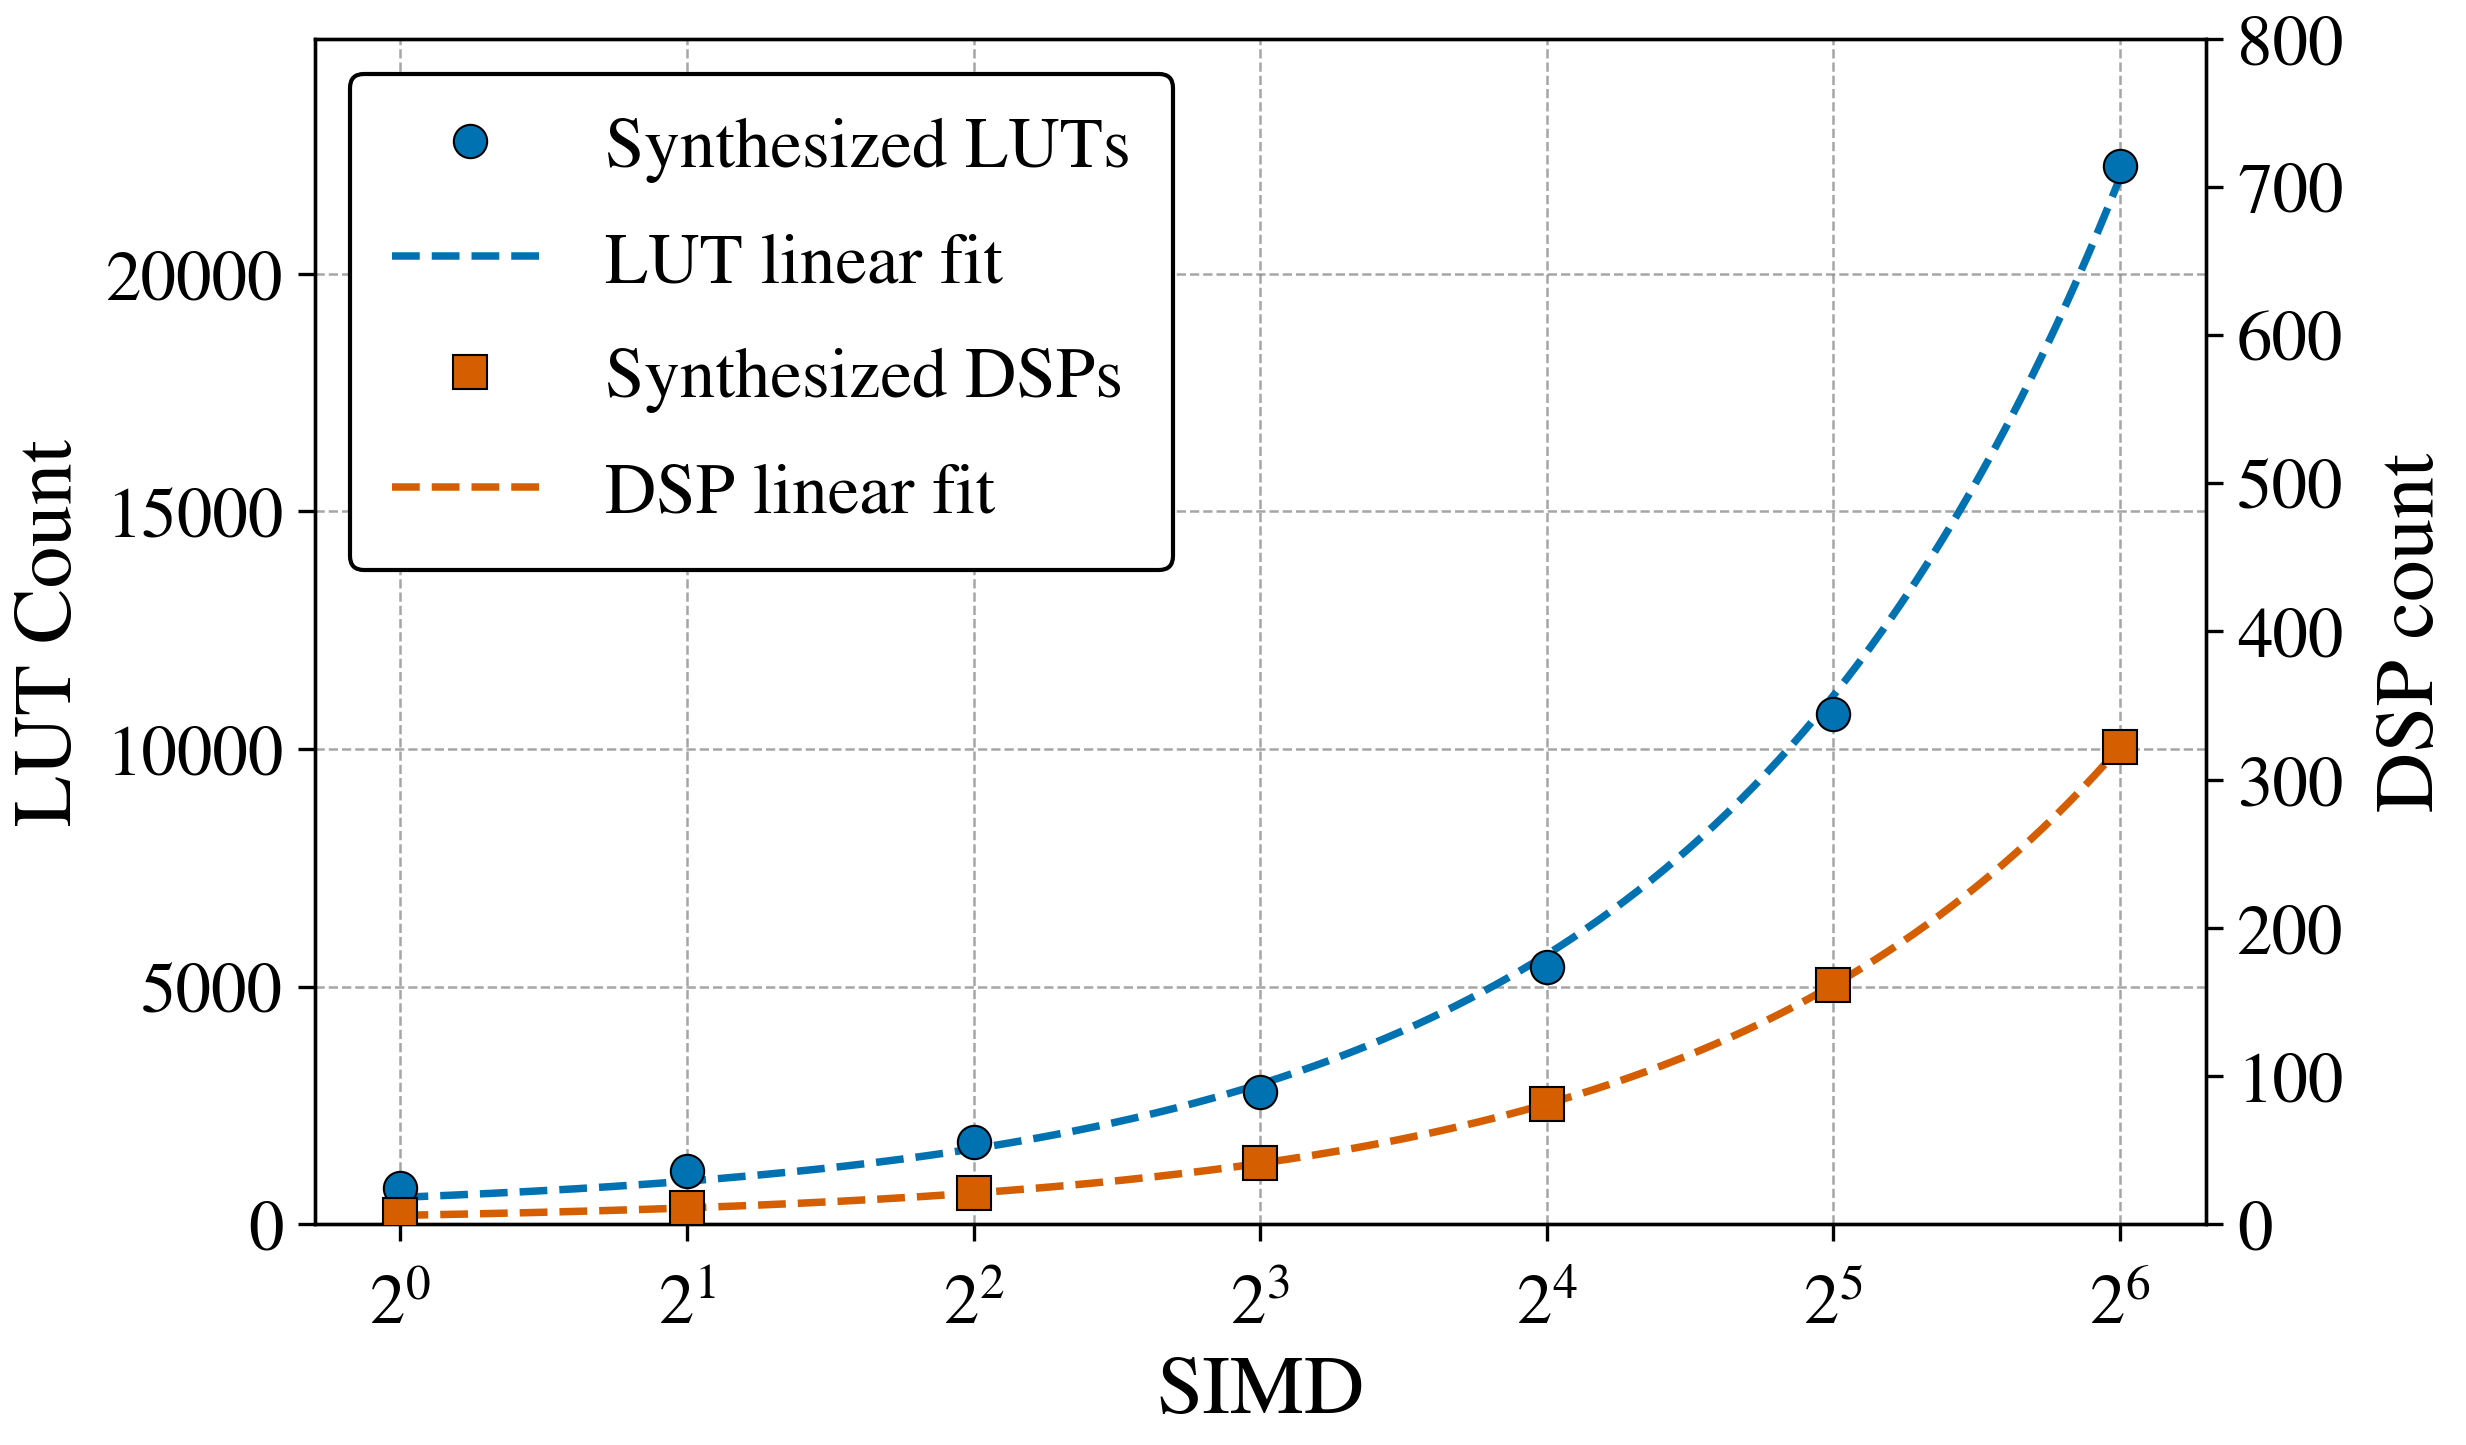
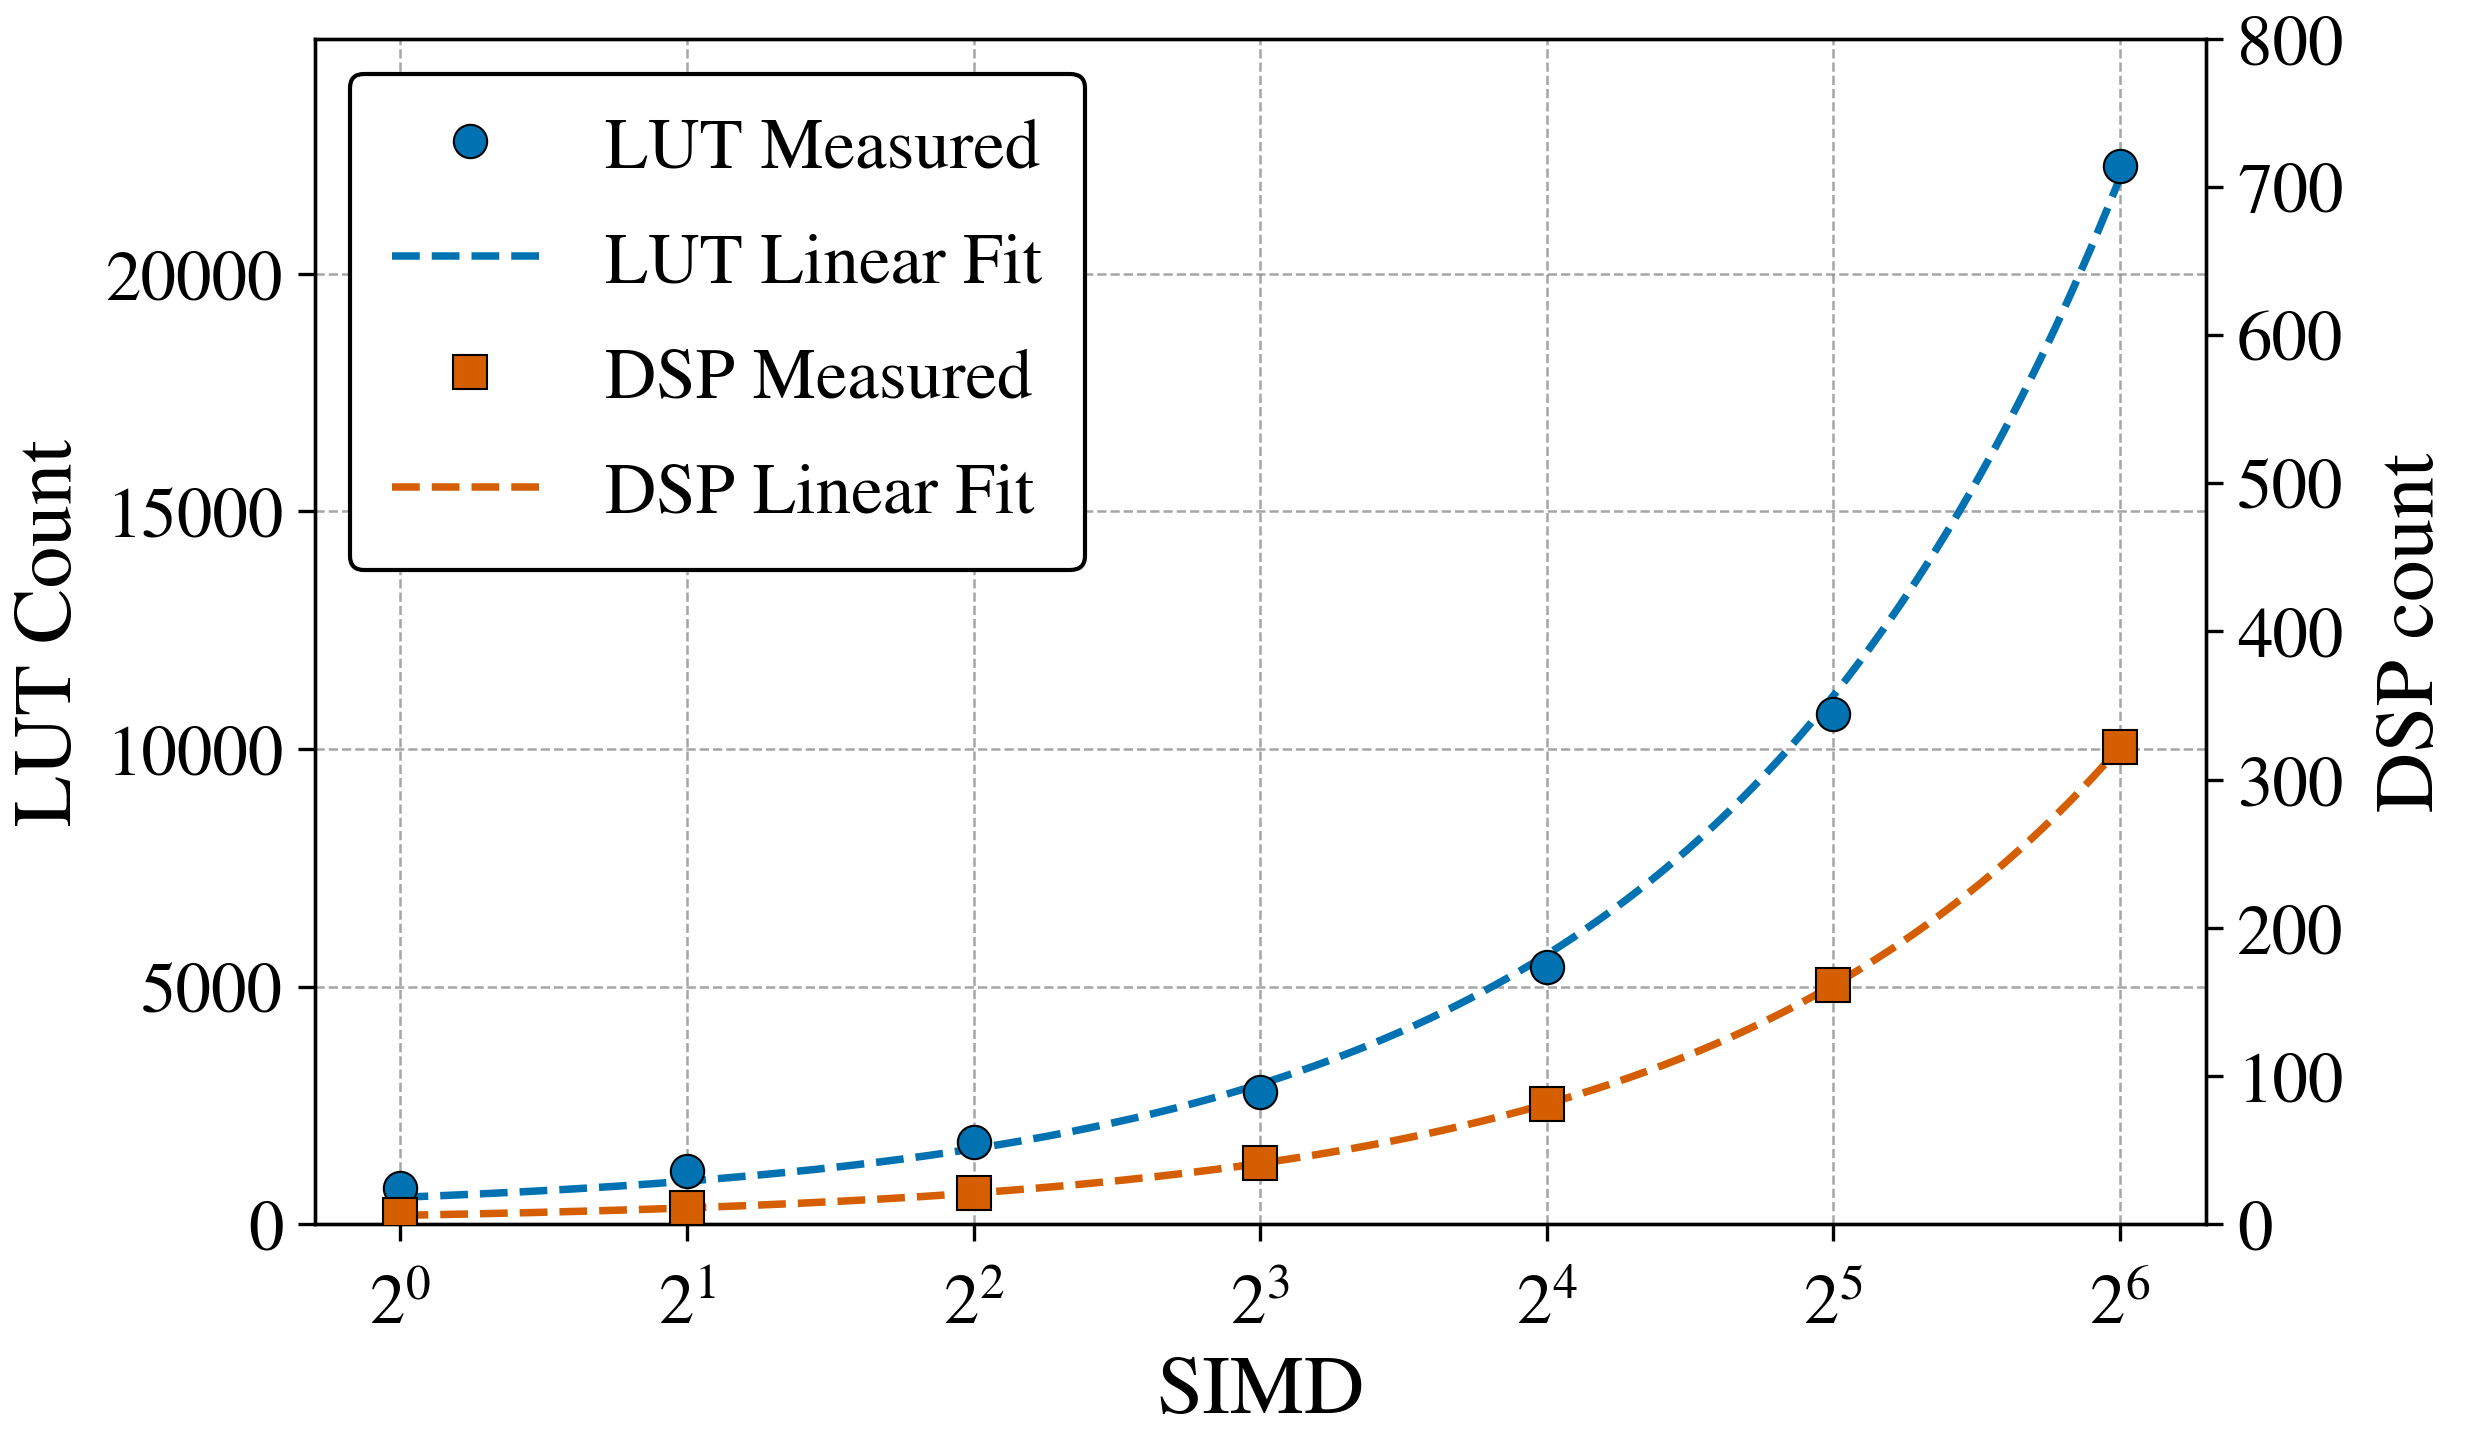
m

diff --git a/evaluation/softmax/SIMD_sweep/scripts/plot_resources.py b/evaluation/softmax/SIMD_sweep/scripts/plot_resources.py
@@ -117,10 +117,10 @@ COLOR_DSP = "#D55E00"   # vermillion -> right y-axis (DSP)
 DSP_YMAX = 800.0
 
 # Legend labels for the four drawn artists (two data series + two fit lines).
-LABEL_LUT_DATA = "Synthesized LUTs"
-LABEL_LUT_FIT = "LUT linear fit"
-LABEL_DSP_DATA = "Synthesized DSPs"
-LABEL_DSP_FIT = "DSP linear fit"
+LABEL_LUT_DATA = "LUT Measured"
+LABEL_LUT_FIT = "LUT Linear Fit"
+LABEL_DSP_DATA = "DSP Measured"
+LABEL_DSP_FIT = "DSP Linear Fit"
 
 # Extra padding (points) between the base-2 log x-axis tick *labels* and the tick
 # marks. The SIMD ticks are rendered as ``2^k`` powers, whose raised exponent
